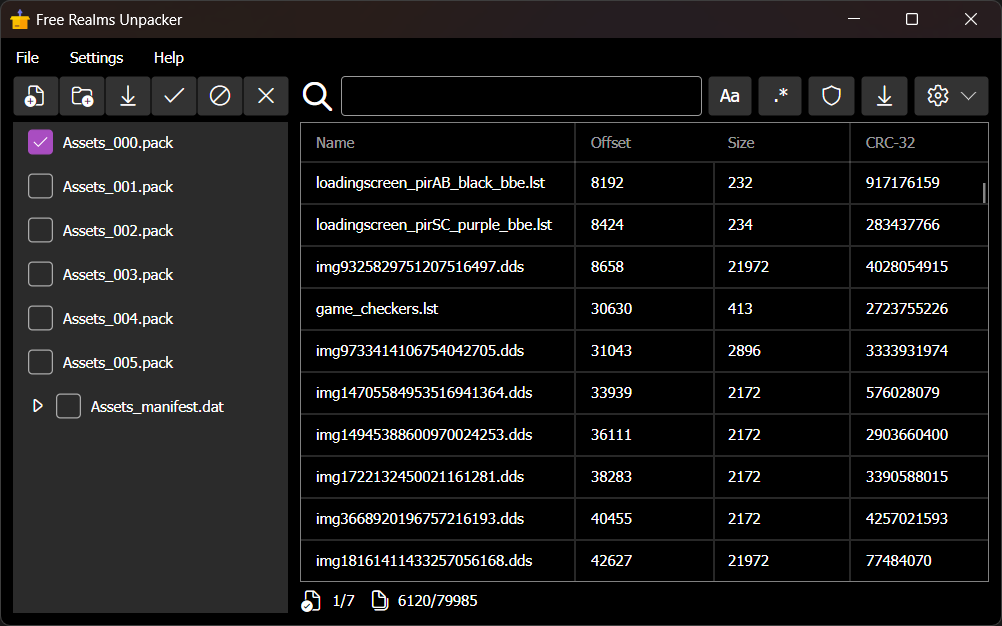
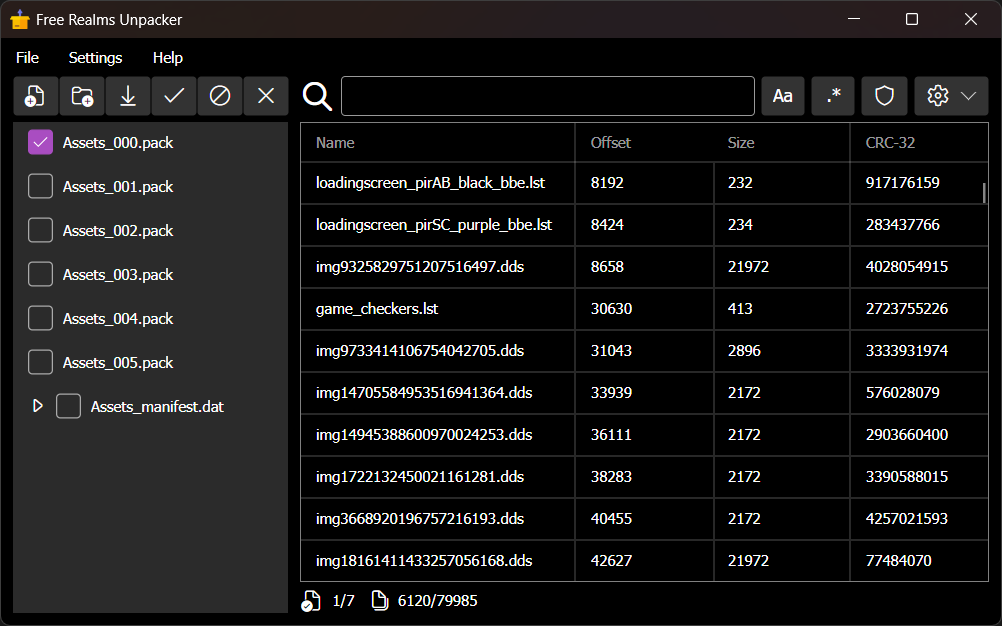
Moved secondary extract button to context menu

diff --git a/UnpackerGui/Converters/ExpressionConverter.cs b/UnpackerGui/Converters/ExpressionConverter.cs
@@ -1,0 +1,23 @@
+using Avalonia.Data;
+using Avalonia.Data.Converters;
+using System;
+using System.Globalization;
+
+namespace UnpackerGui.Converters;
+
+public class ExpressionConverter : IValueConverter
+{
+    public object? Convert(object? value, Type targetType, object? parameter, CultureInfo culture) => value switch
+    {
+        int lhs when parameter is string rhs => rhs[0] switch
+        {
+            '>' => lhs > int.Parse(rhs.AsSpan(1)),
+            '<' => lhs < int.Parse(rhs.AsSpan(1)),
+            '=' => lhs == int.Parse(rhs.AsSpan(1)),
+            _ => new BindingNotification(new InvalidCastException(), BindingErrorType.Error)
+        },
+        _ => new BindingNotification(new InvalidCastException(), BindingErrorType.Error)
+    };
+
+    public object? ConvertBack(object? value, Type targetType, object? parameter, CultureInfo culture) => null;
+}
